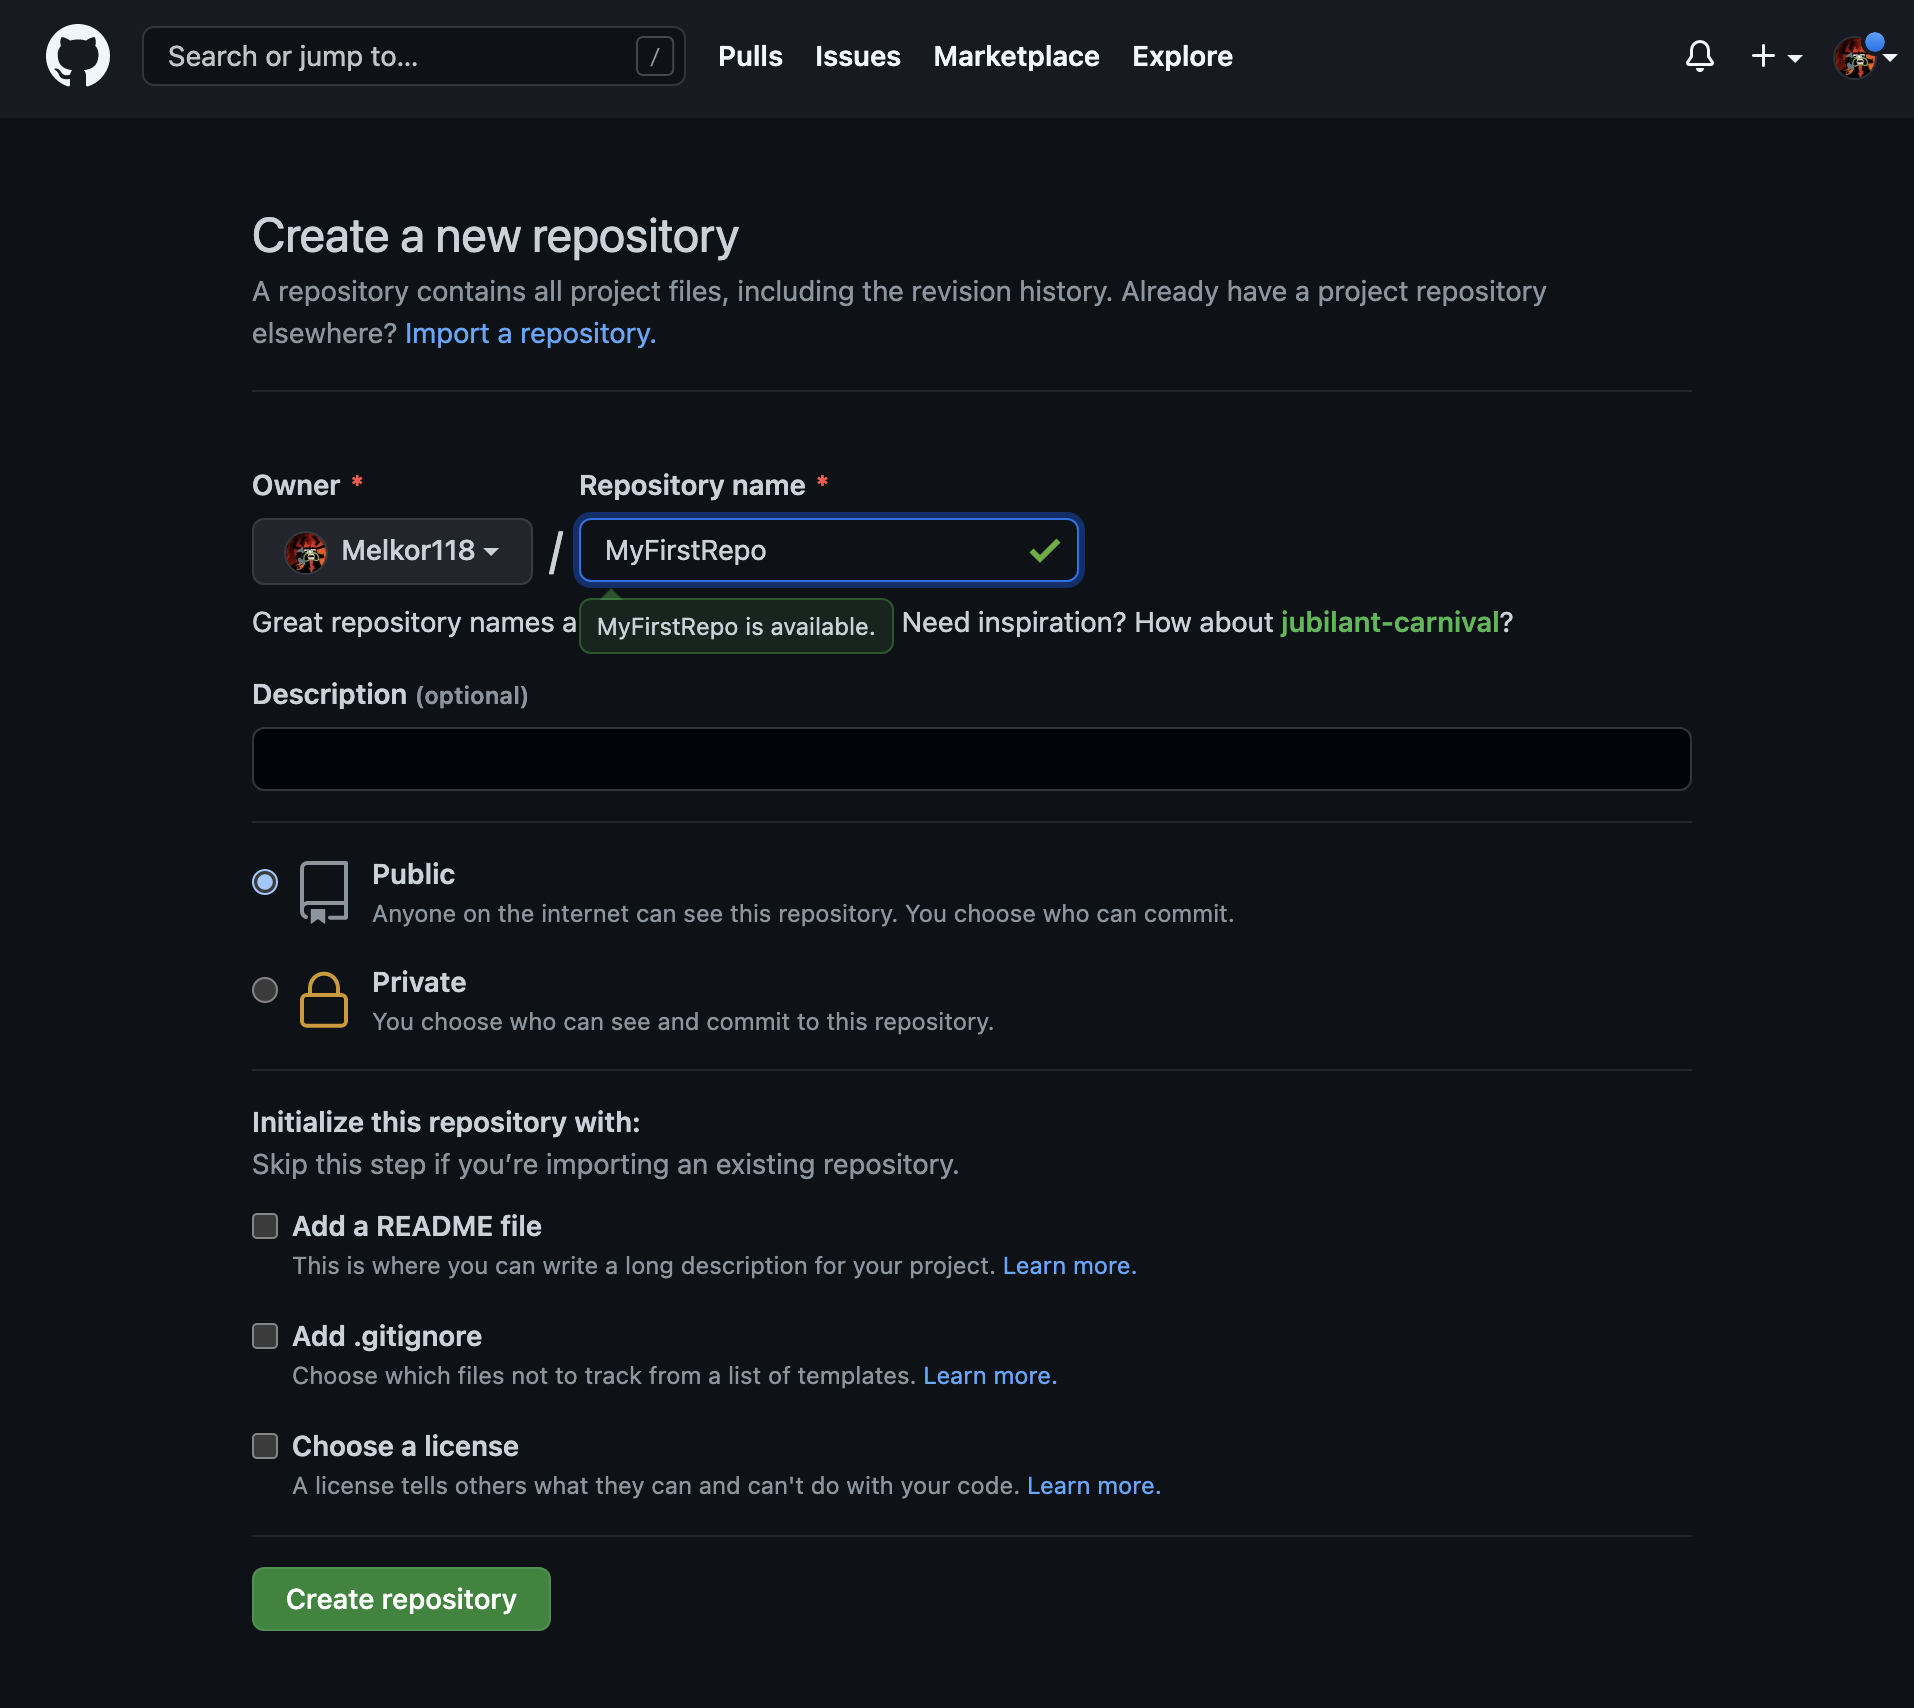
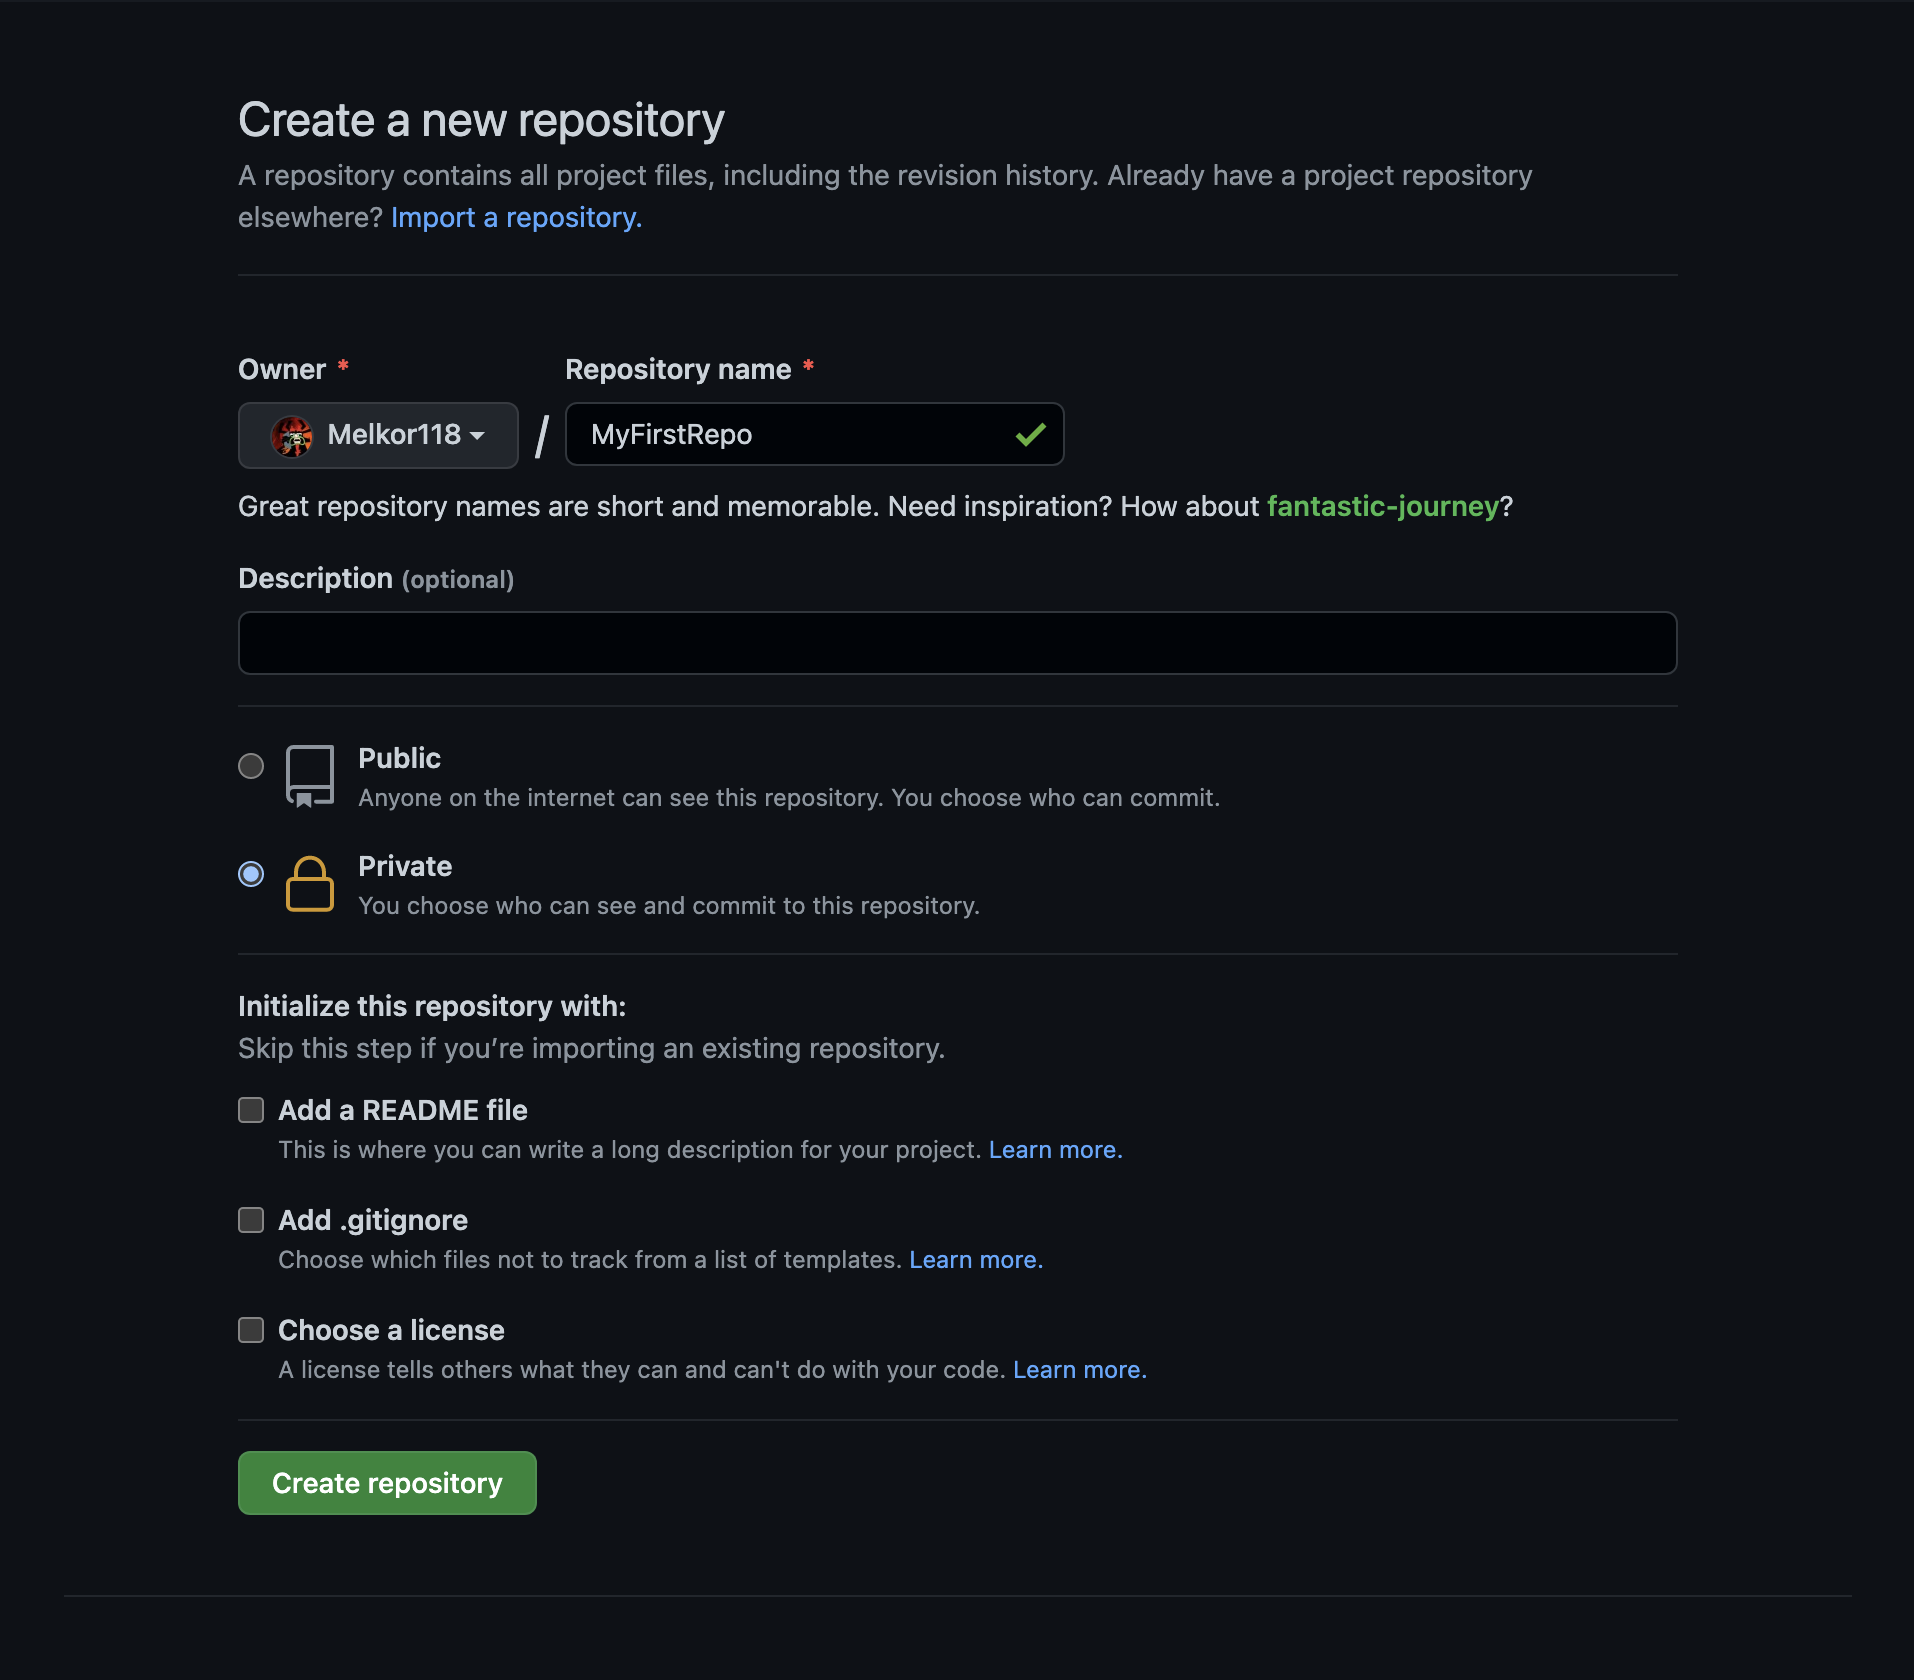
added more images ad updates to workshop guide

diff --git a/Github_Workshop.md b/Github_Workshop.md
@@ -12,7 +12,28 @@ Go to [code.cs50.io](code.cs50.io) and connect your Github account. You will nee
 
 ***A quick side note, I highly recommend enrolling and taking [CS50's Course](https://cs50.harvard.edu/college/2022/spring/) if you're just starting out and have some time on your hands***
 
-Now that we have this set up lets move on.
+#### Git, Github and CS50 IDE (Code50)
+
+As outlined by the [Code50 documentation](https://cs50.readthedocs.io/code/) as the technology utilised by the Code50 [Codespaces](https://github.com/features/codespaces) uses their organisations Github we are blocked from using git within our codespace directly.
+
+```Shell
+
+$ git
+You are in a repository managed by CS50. Git is disabled. See https://cs50.ly/git.
+```
+
+The documentation states we can use git if we go back a directory.
+
+```Shell
+$ pwd
+/workspaces/68335119
+$ cd ..
+$ pwd
+/workspaces/
+$ git #the output will show correctly and the error will no longer be there
+```
+
+Now that we have this set up lets move on. We will run into issues later but we'll tackle them as it comes up.
 
 ![alt text](https://github.com/Melkor118/GitGud-Workshop/blob/main/images/Overview.png "Overview")
 
@@ -49,7 +70,7 @@ There are two ways to initially start a Git Repository. The easiest method is vi
 Remember that Git is solely housed on your computer and is not yet a collaborative tool.
 
 ```Shell
-$ git init MyFirstRepo -b main
+$ git init MyFirstRepo
 ```
 
 This will initialise a blank repository with the branch name main.
@@ -82,7 +103,7 @@ $ touch README.md
 $ [insert your text editor cmd here] README.md #Yes, Vi, Vim, Emacs, Atom are all the greatest thing since sliced bread. I use VScode like a peasant
 ```
 
-Write anything you'd like and save.
+Write anything you'd like and save (Code50 autosaves).
 
 ```Shell
 $ git status
@@ -176,9 +197,53 @@ Now as shown in the last picture, we have a few options to get content into our 
 ```Shell
 $ git remote add origin https://github.com/<username>/MyFirstRepo.git #create a remote location called origin at the following link to send my repository updates to
 $ git push --set-upstream origin main #-u can be used instead of --set-upstream
+remote: Write access to repository not granted.
+fatal: unable to access 'https://github.com/Melkor118/MyFirstRepo.git/': The requested URL returned error: 403
 ```
 
-The above will tell our local git repository to talk to the location we created on Github.
+The above will tell our local git repository to talk to the location we created on Github. unfortunately it errors.
+
+This error is caused by us using Code50. It's an authentication issue. As I mentioned earlier, this is using CS50's github and not ours. that means, since MyFirstRepo is private we cannot access it.
+
+Therefor we must provide a [Personal Access Token](https://docs.github.com/en/authentication/keeping-your-account-and-data-secure/creating-a-personal-access-token) to CS50. Take a look at that link as it steps you through creating one.
+
+I recommend setting the expiry date to be for when the semester ends. This token provides ANYONE who has it access to your private repositories. If you already have a strong Github portfolio you may want to create a new account to use for your uni work and you can collate the repos later on.
+
+Now that we have a Personal Access Token to allow CS50 to access our private repos lets put that in our environment.
+
+### Adding your Personal Access Token to Code50
+
+There are a few different ways you can do this and I will leave it to you to decide as to which you use as each have pros and cons regarding security.
+
+#### Include the token in the remote url
+[GITHUB TOKEN 1](https://github.com/Melkor118/GitGud-Workshop/blob/main/images/GITHUB_TOKEN-1.png)
+
+#### Change the Environment Variable
+[GITHUB TOKEN 2](https://github.com/Melkor118/GitGud-Workshop/blob/main/images/GITHUB_TOKEN-2.png)
+
+Unfortunately these are not persistent. We have tested putting commands in the .bashrc file to make this persistent but it does not get backed up. I am still looking into a persistent method.
+
+#### Create an initialisation script
+
+Another method I use to lower the inconvenience is to make the following command into a script that you can run manually when you start Code50.
+
+```Shell
+$ echo "export GITHUB_TOKEN=ghp_YourPersonalAccessToken" >> init.sh #Creates file with the content "export ..."
+$ chmod +x init.sh #make it an executable file
+$ ./init.sh #run the script
+```
+
+This will be backed up if you save it in your workspace and you can just run it when you start up Code50. Downside is your token is in plaintext in a file on the workspace but it won't be in your bash_history.
+
+after doing the above we can now continue.
+
+```Shell
+$ git remote add origin https://github.com/<username>/MyFirstRepo.git #create a remote location called origin at the following link to send my repository updates to
+$ git push --set-upstream origin main #-u can be used instead of --set-upstream
+```
+
+We should get no errors now.
+
 
 ```Shell
 Enumerating objects: 3, done.
@@ -194,6 +259,7 @@ Branch 'main' set up to track remote branch 'main' from 'origin'.
 We have now pushed our local git repo to Github.
 
 ![alt text](https://github.com/Melkor118/GitGud-Workshop/blob/main/images/Github_New_Repo-4.png)
+
 
 
 
